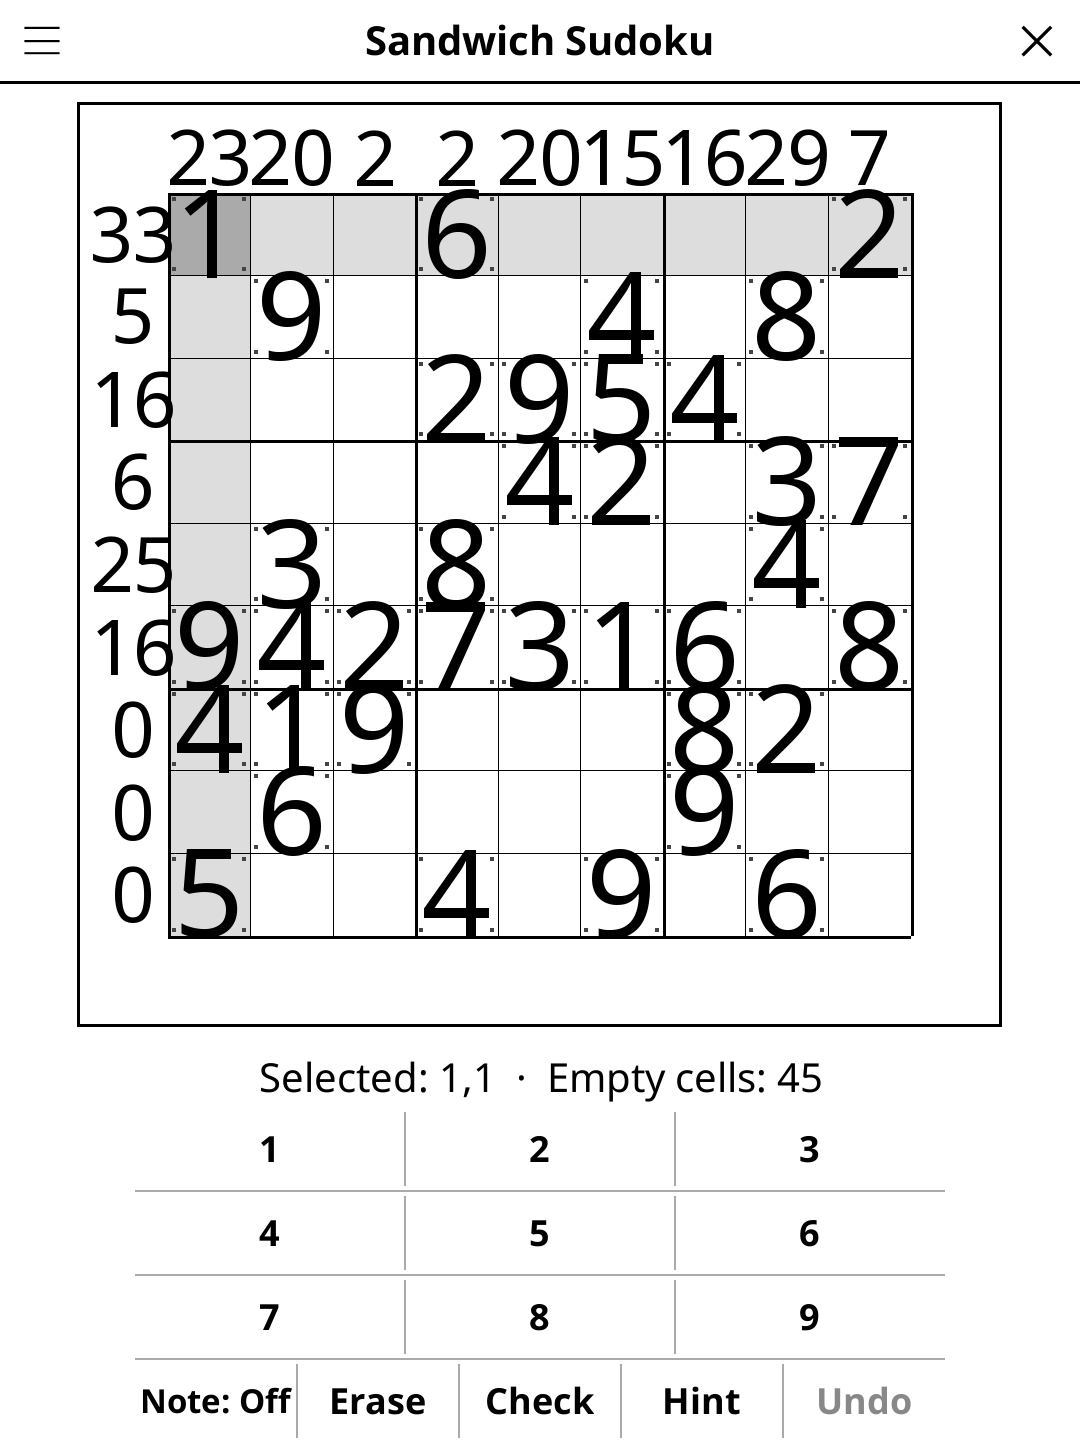
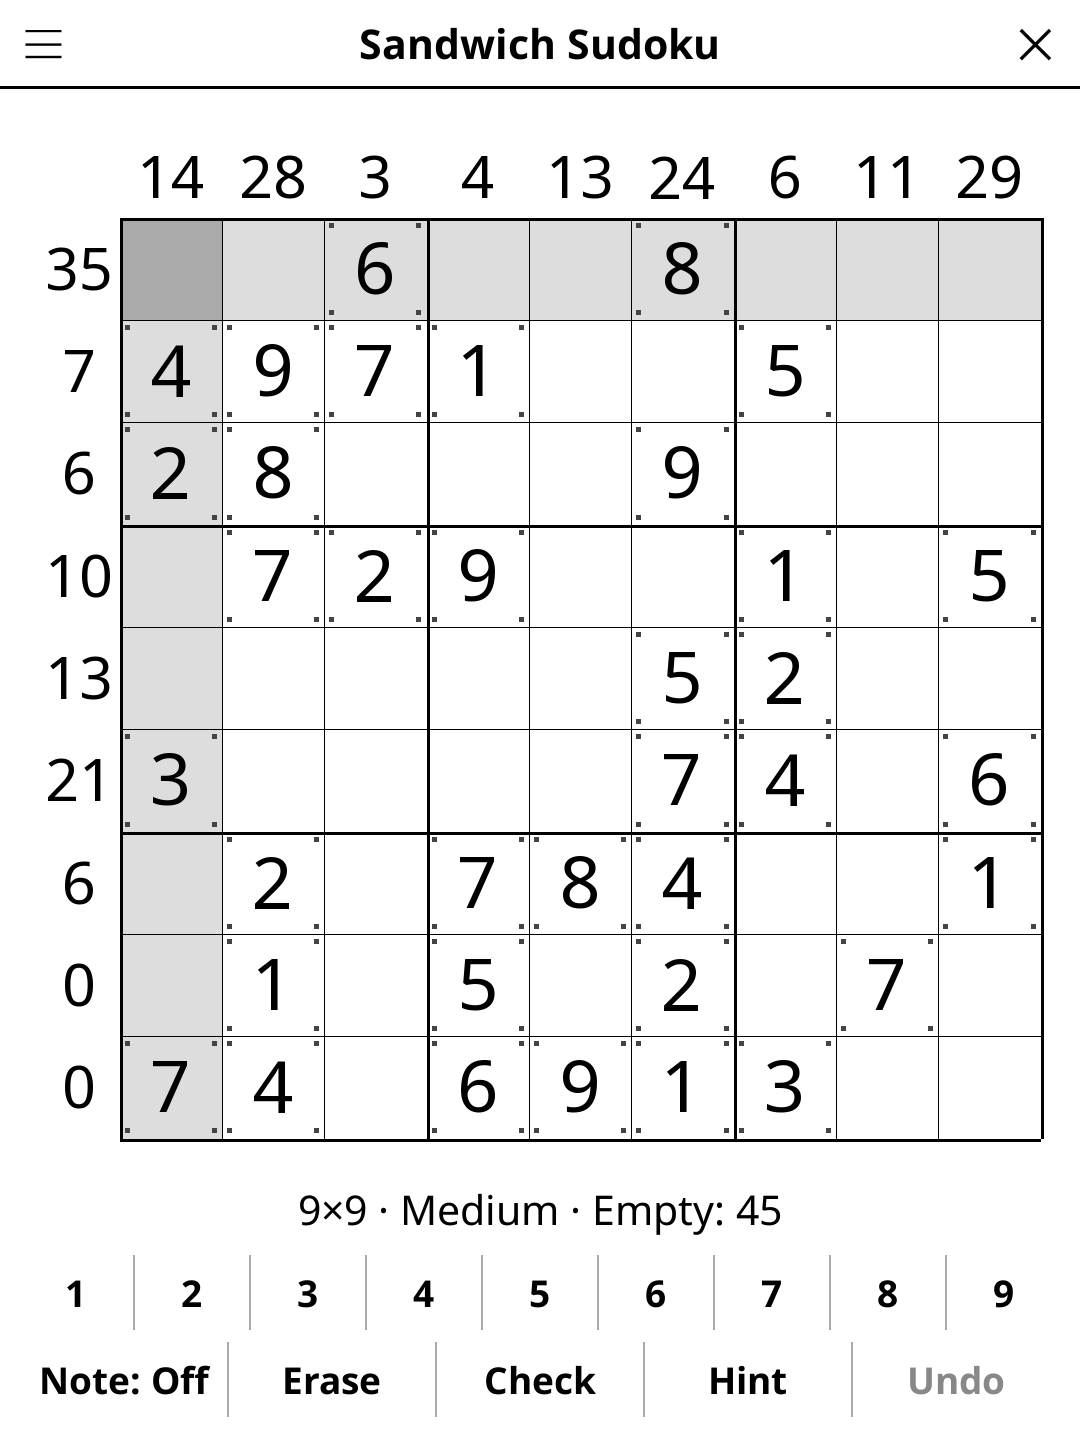
release: 1.5.0 -- redesigned screen, harmonised menu, New game at round end
Screen redesign (full-width action bar, unified pad, status line, larger
board), harmonised title-bar menu, and a "New game" button once the round
is over. See CHANGELOG.md.

diff --git a/CHANGELOG.md b/CHANGELOG.md
@@ -2,6 +2,30 @@
 
 All notable changes to this project will be documented in this file.
 
+## [1.5.0] - 2026-10-30
+
+### Changed
+- Redesigned play screen (sudoku-common 1.5.0): the board is larger, filling
+  the room the controls leave, with the digits 1-9 on one even row and Note /
+  Erase / Check / Hint / Undo in a full-width bar under the status line.
+- The status line reads "9×9 · Medium · Empty: 45" and wraps in landscape
+  instead of being cut off.
+- The title-bar menu shows "Difficulty: …" and "Show solution" / "Hide
+  solution" (was "Diff: …" and "Show result" / "Hide result"), like every
+  other game.
+- Once the puzzle is solved, the tool bar shows "New game" in place of
+  Note/Erase/Check/Hint/Undo; an Undo that un-solves the grid brings the tools
+  back.
+
+### Fixed
+- Digits overflowed their cells: the shared font fit accepted every size.
+  Digits and notes now fit their cell on every screen.
+- The grid is larger: the clue margin is now kept on the left and top only
+  (it was reserved on all four sides), sized to the clues, and the cell
+  digits and notes are fitted to the smaller cells that margin leaves.
+  Two-digit sums no longer overflow, and the clues are centred on their row
+  or column.
+
 ## [1.4.1] - 2026-10-02
 
 ### Fixed

diff --git a/README.md b/README.md
@@ -40,7 +40,7 @@ Standard 9×9 Sudoku rules plus **sandwich clues**: each row/column clue shows t
 | Check progress | Tap **Check** |
 | Get a hint | Tap **Hint** (tap again to go deeper) |
 | New game | Tap **New game** |
-| Change difficulty | Tap **Diff** |
+| Change difficulty | Tap **Difficulty** |
 | Show rules | Tap **Rules** |
 
 ## License
